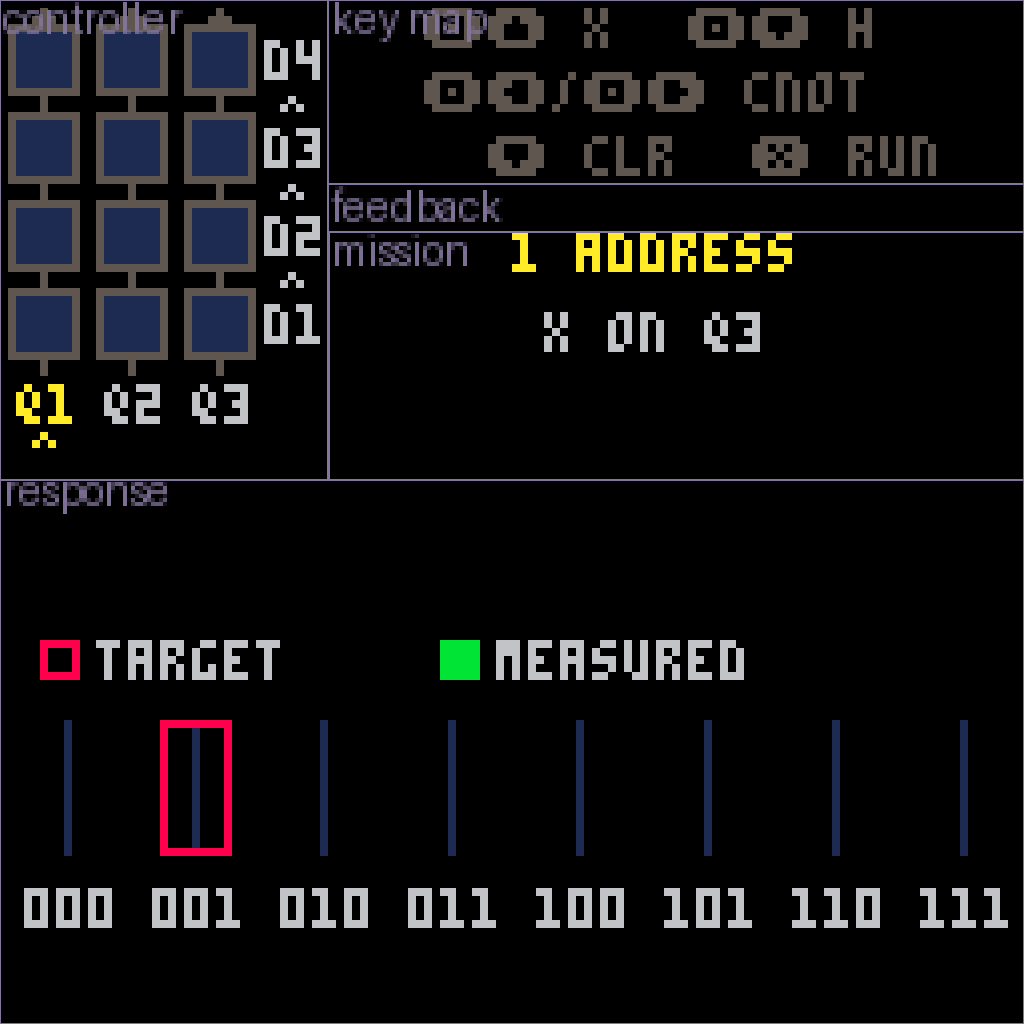
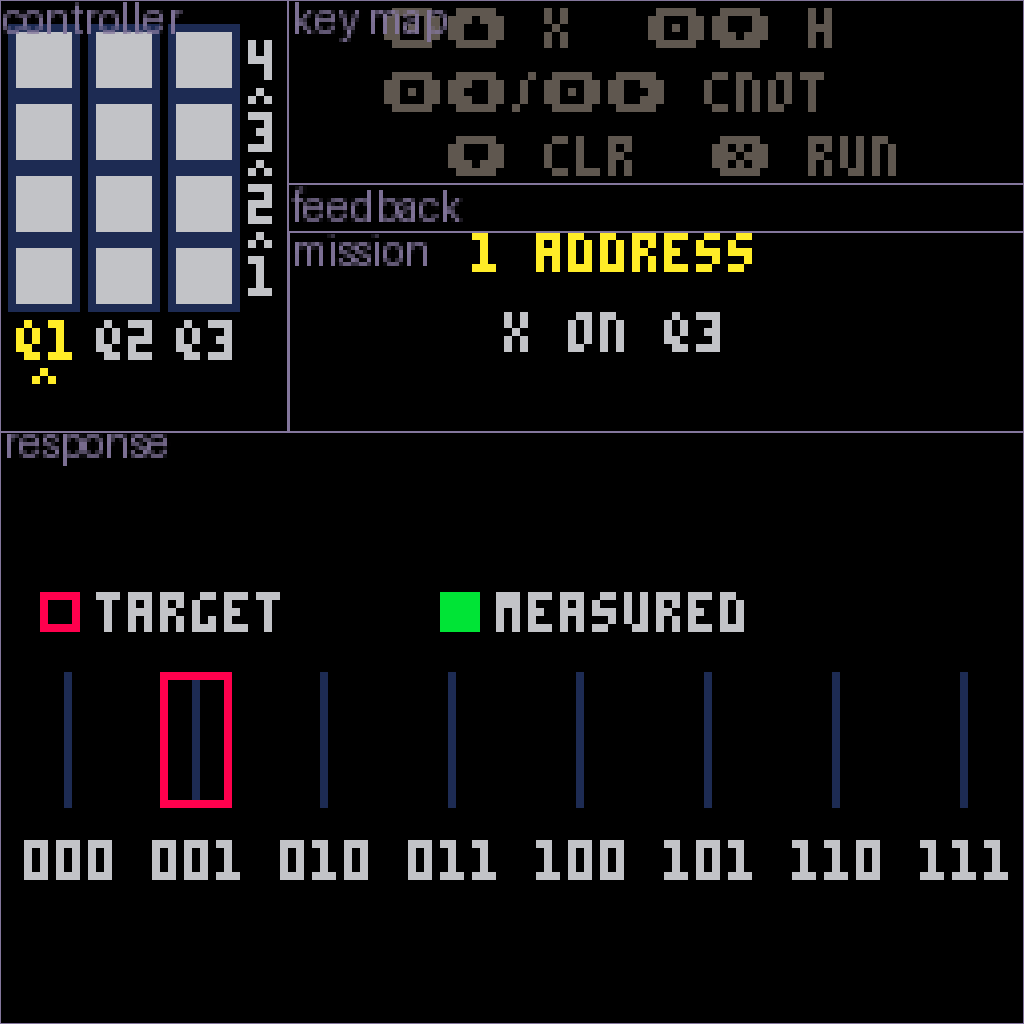
update layout

diff --git a/0UsefulExamples/qilin-game-framework/tools/render_core.py b/0UsefulExamples/qilin-game-framework/tools/render_core.py
@@ -20,7 +20,7 @@ from layout_parser import LayoutParseError, parse_project, parse_scalar
 
 SCREEN_W = 128
 SCREEN_H = 128
-RENDERER_VERSION = "3.1.0"
+RENDERER_VERSION = "3.6.0"
 
 PICO8_PALETTE = [
     (0, 0, 0),
@@ -297,6 +297,41 @@ def _draw_target_plus(
     canvas.line(center_x, center_y - radius, center_x, center_y + radius, color)
 
 
+def parse_grid_colors(source: str) -> tuple[int, int]:
+    """Read the grid colors from the cartridge's real draw_circuit code."""
+    function_match = re.search(
+        r"\bfunction\s+draw_circuit\s*\(\s*\)(.*?)"
+        r"\nend\s*\n\s*function\s+print_centered_in_region\b",
+        source,
+        re.DOTALL,
+    )
+    if function_match is None:
+        raise PreviewError("Could not find the draw_circuit function.")
+    draw_circuit = function_match.group(1)
+
+    background_match = re.search(
+        r"rectfill\s*\(\s*x\s*,\s*y\s*,"
+        r"\s*x\s*\+\s*grid_layout\.cell_w\s*,"
+        r"\s*y\s*\+\s*grid_layout\.cell_h\s*,\s*(\d+)\s*\)",
+        draw_circuit,
+        re.DOTALL,
+    )
+    border_match = re.search(
+        r"\blocal\s+border_color\s*=\s*(\d+)\b",
+        draw_circuit,
+    )
+    if background_match is None or border_match is None:
+        raise PreviewError(
+            "Could not read the grid background and border colors from draw_circuit."
+        )
+
+    background = int(background_match.group(1))
+    border = int(border_match.group(1))
+    if not 0 <= background <= 15 or not 0 <= border <= 15:
+        raise PreviewError("Grid colors must be PICO-8 palette indices from 0 to 15.")
+    return background, border
+
+
 def render_source(
     source: str,
     font: Pico8BitmapFont,
@@ -320,6 +355,7 @@ def render_project(
     states = project["states"]
     num_qubits = int(project["num_qubits"])
     circuit_depth = int(project["circuit_depth"])
+    grid_background_color, grid_border_color = parse_grid_colors(source)
 
     if not 1 <= state.level_number <= len(levels):
         raise PreviewError(
@@ -386,23 +422,6 @@ def render_project(
                 color,
             )
 
-    # Qubit Wires derived from Controller Grid
-    wire_local_x = int(grid["cell_w"]) // 2
-    wire_top_y = grid_y - int(grid["wire_top_overhang"])
-    wire_bottom_y = (
-        grid_y
-        + (circuit_depth - 1) * int(grid["row_pitch"])
-        + int(grid["cell_h"])
-        - 1
-        + int(grid["wire_bottom_overhang"])
-    )
-    for visual_col in range(num_qubits):
-        wire_x = grid_x + visual_col * int(grid["col_pitch"]) + wire_local_x
-        canvas.line(wire_x, wire_top_y, wire_x, wire_bottom_y, 5)
-        half_w = int(grid["wire_arrow_half_w"])
-        canvas.line(wire_x - half_w, grid_y, wire_x, wire_top_y, 5)
-        canvas.line(wire_x + half_w, grid_y, wire_x, wire_top_y, 5)
-
     # Depth Flow Indicator
     depth_flow = controller["depth_flow"]
     for visual_row in range(1, circuit_depth):
@@ -438,7 +457,7 @@ def render_project(
         row_y = visual_row * int(grid["row_pitch"])
         y = grid_y + row_y
         canvas.text(
-            f"d{depth}",
+            str(depth),
             controller_x + int(depth_index["x"]),
             controller_y + int(depth_index["y"]) + row_y + int(depth_index["text_y"]),
             6,
@@ -449,8 +468,8 @@ def render_project(
             x = grid_x + visual_col * int(grid["col_pitch"])
             right = x + int(grid["cell_w"]) - 1
             bottom = y + int(grid["cell_h"]) - 1
-            canvas.rectfill(x, y, right, bottom, 1)
-            canvas.rect(x, y, right, bottom, 5)
+            canvas.rectfill(x, y, right, bottom, grid_background_color)
+            canvas.rect(x, y, right, bottom, grid_border_color)
 
             gate_type, target = gate_map.get((visual_q, depth), ("-", None))
             if gate_type == "cx":

diff --git a/0UsefulExamples/qilin-game-framework/tests/test_render_colors.py b/0UsefulExamples/qilin-game-framework/tests/test_render_colors.py
@@ -1,0 +1,25 @@
+import sys
+import unittest
+from pathlib import Path
+
+
+ROOT = Path(__file__).resolve().parents[1]
+sys.path.insert(0, str(ROOT / "tools"))
+
+from render_core import parse_grid_colors
+
+
+class CartridgeColorParsingTest(unittest.TestCase):
+    def test_grid_colors_come_from_draw_circuit(self) -> None:
+        source = """
+function draw_circuit()
+  local border_color=12
+  rectfill(x,y,x+grid_layout.cell_w,y+grid_layout.cell_h,3)
+end
+function print_centered_in_region()
+end
+"""
+        self.assertEqual(parse_grid_colors(source), (3, 12))
+
+if __name__ == "__main__":
+    unittest.main()

diff --git a/0UsefulExamples/qilin-game-framework/tools/layout_parser.py b/0UsefulExamples/qilin-game-framework/tools/layout_parser.py
@@ -324,7 +324,7 @@ def normalize_layout(
 
     defaults = {
         "wire_top_overhang": 2,
-        "wire_bottom_overhang": 2,
+        "wire_bottom_overhang": 0,
         "wire_arrow_half_w": 2,
         "control_radius": 1,
         "target_radius": 2,
@@ -359,7 +359,8 @@ def normalize_layout(
     grid_height = (circuit_depth - 1) * int(grid["row_pitch"]) + int(grid["cell_h"])
     required_controller_w = max(
         int(grid.get("x", 0)) + grid_width,
-        int(depth_index.get("x", 0)) + 8,
+        # Depth labels are now one 4-pixel P8SCII digit plus 1 px breathing room.
+        int(depth_index.get("x", 0)) + 5,
         int(depth_flow.get("x", 0)) + 4,
     )
     required_controller_h = max(